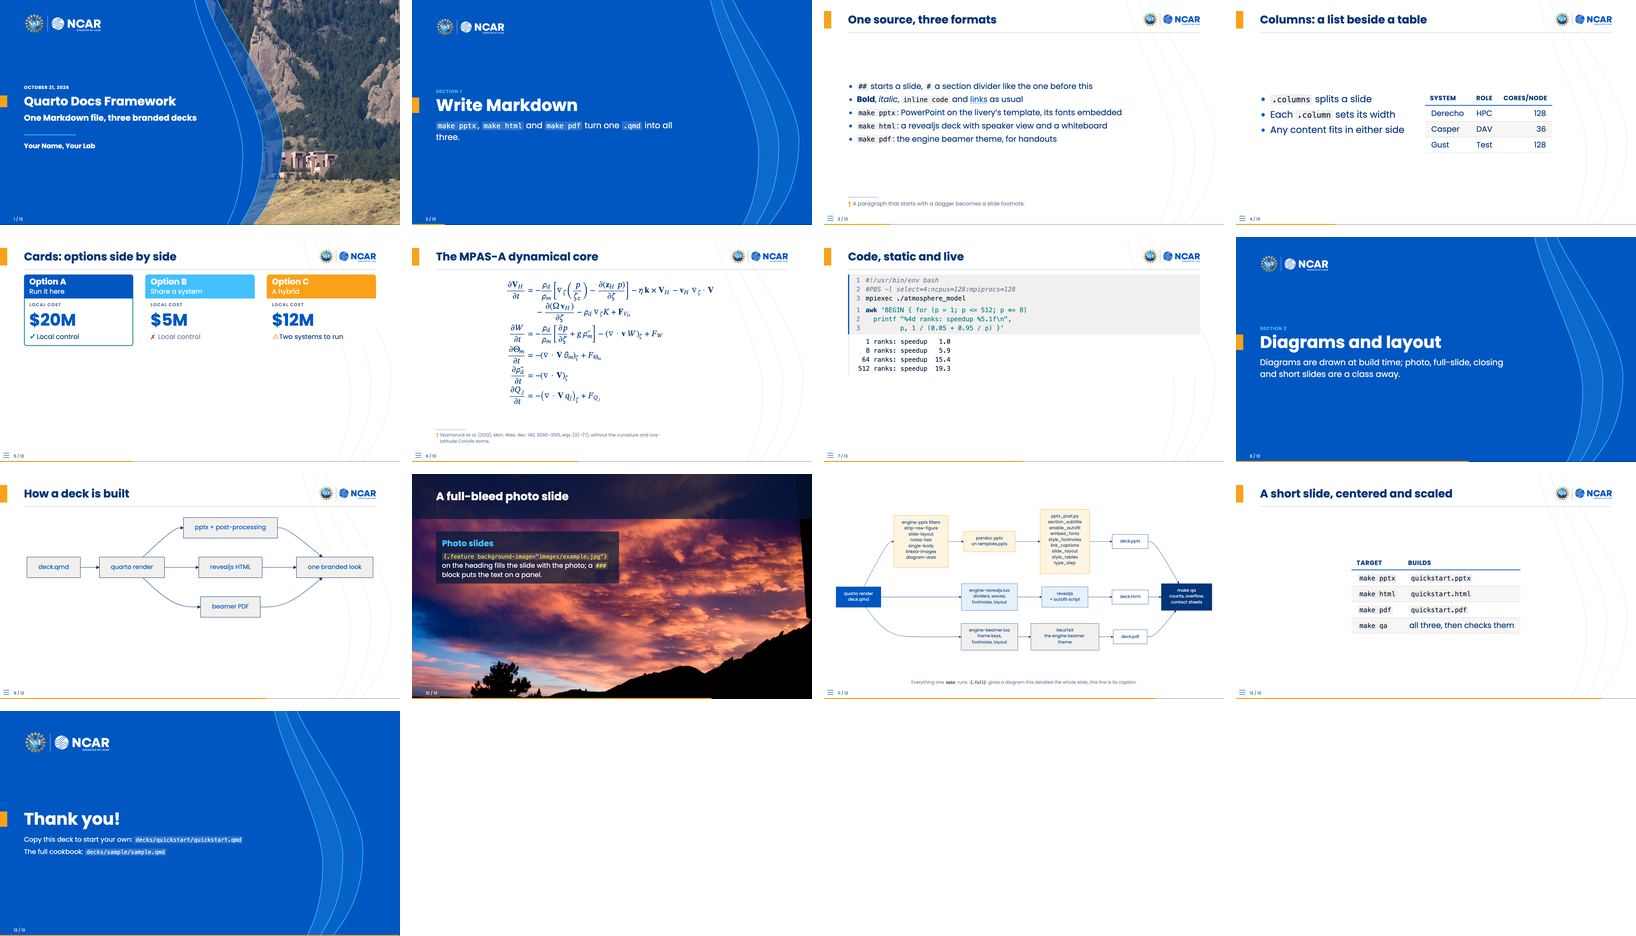
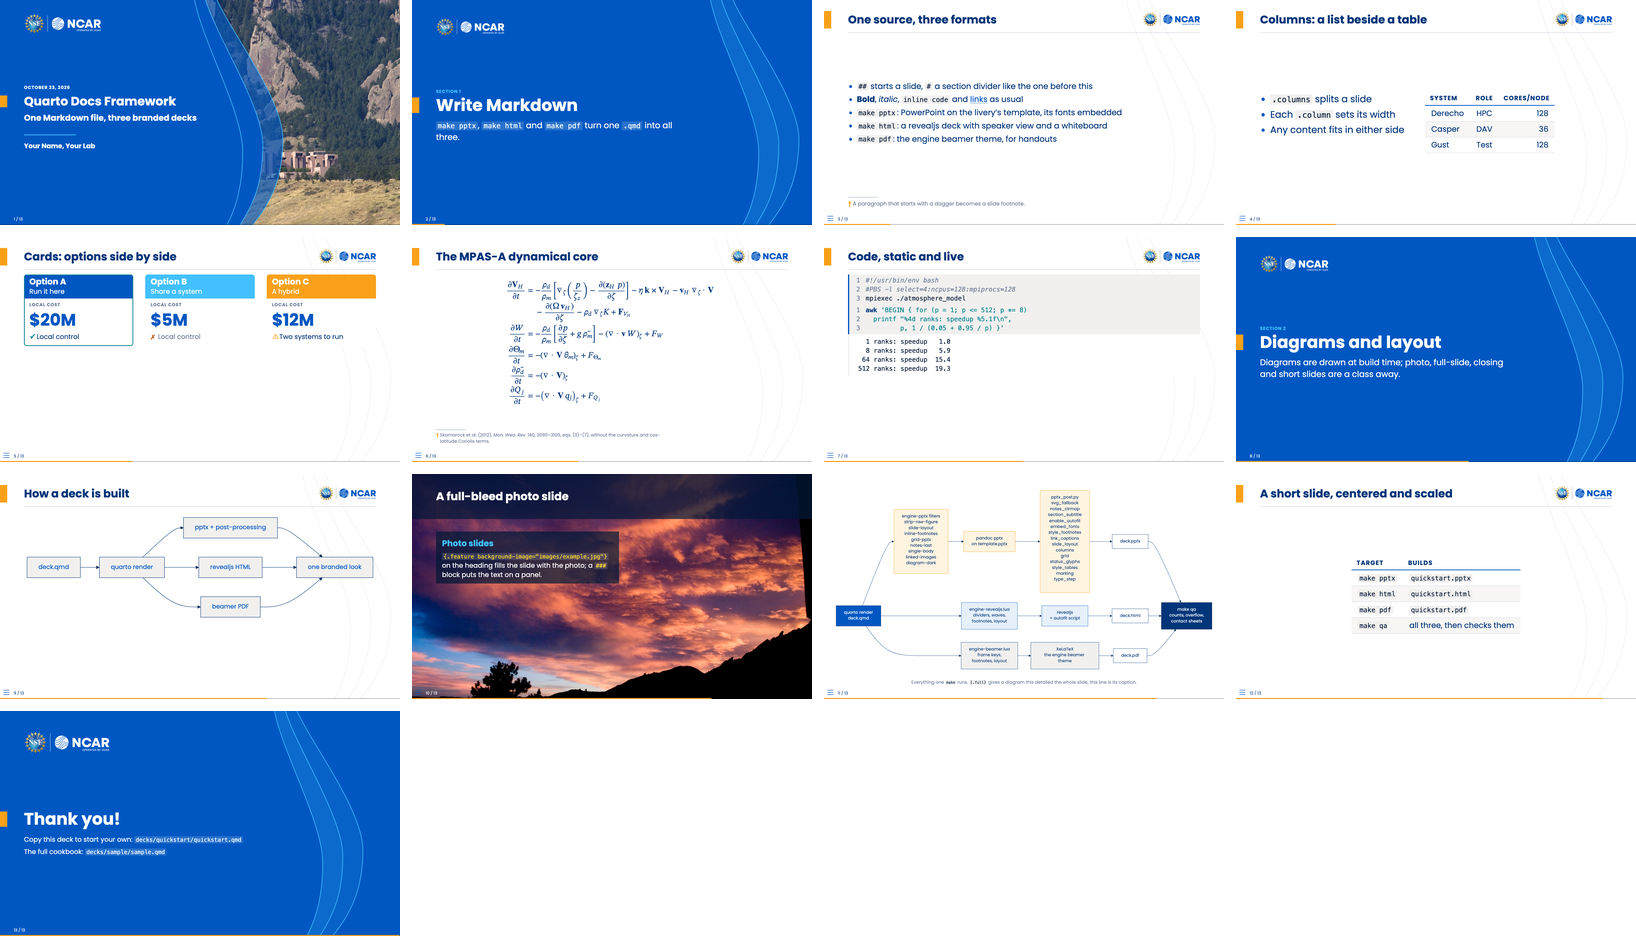
Quickstart: the pipeline diagram lists every pptx filter and step
The full-slide diagram named six of the eight engine-pptx filters (no inline-footnotes,
grid-pptx) and eight of the fourteen post-render steps (no svg_fallback, notes_clrmap,
columns, grid, status_glyphs, marking). It lists them as _extension.yml and pptx_post.py
run them; 09-full.png and overview.png reshot. The changelog's Decks entry for the sweep.

Claude-Session: https://claude.ai/code/session_018sZZ6Tdo7VuWcb619dTZBP

Changed region(s): [[0.4988, 0.5267, 0.7482, 0.7126], [0.9352, 0.0929, 0.9664, 0.1239]]

diff --git a/CHANGELOG.md b/CHANGELOG.md
@@ -66,6 +66,10 @@ owner changes a band, a hairline or a footnote rule once.
   footline and slide number, the blocks on a feature frame in the PDF, a `.brand-dark` slide and
   the code tints on dividers and closings in HTML. White as before on every bundled livery; the
   PDF's feature title takes the feature composition's column role, as HTML and pptx did.
+- The cookbook and the quickstart say what the code does (the docs sweep): the closing slide
+  and SVG images are pptx's too, the pipeline diagram lists every filter and step, and the
+  prose names a role or the text face where it named ncar's yellow, Space and Poppins. The
+  README images show #138's tracking and divider gaps.
 
 ### Liveries
 
